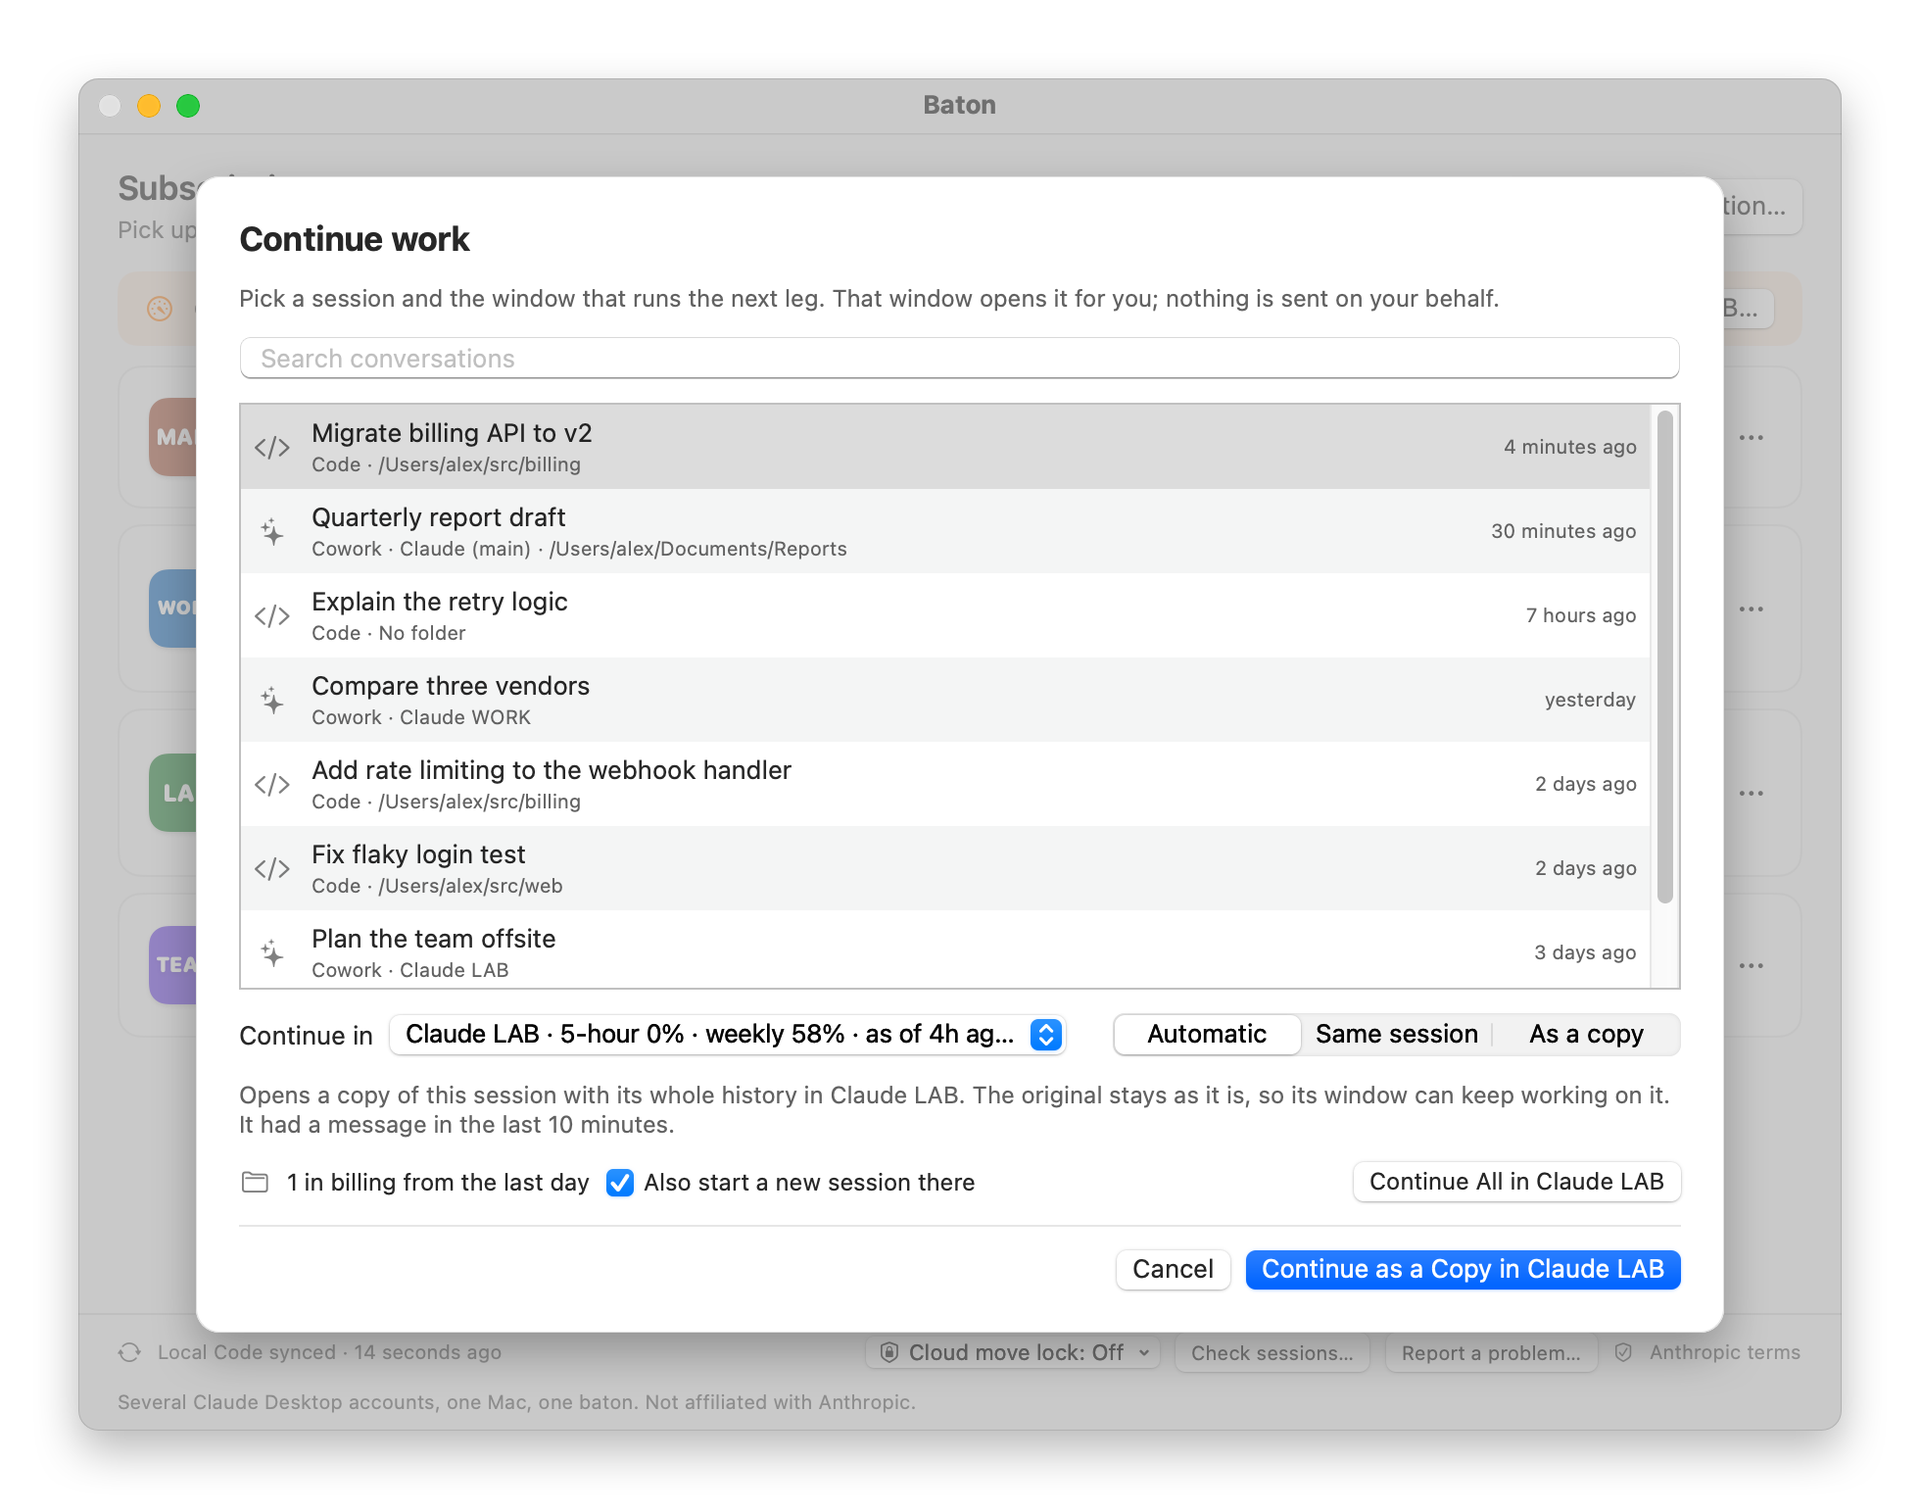
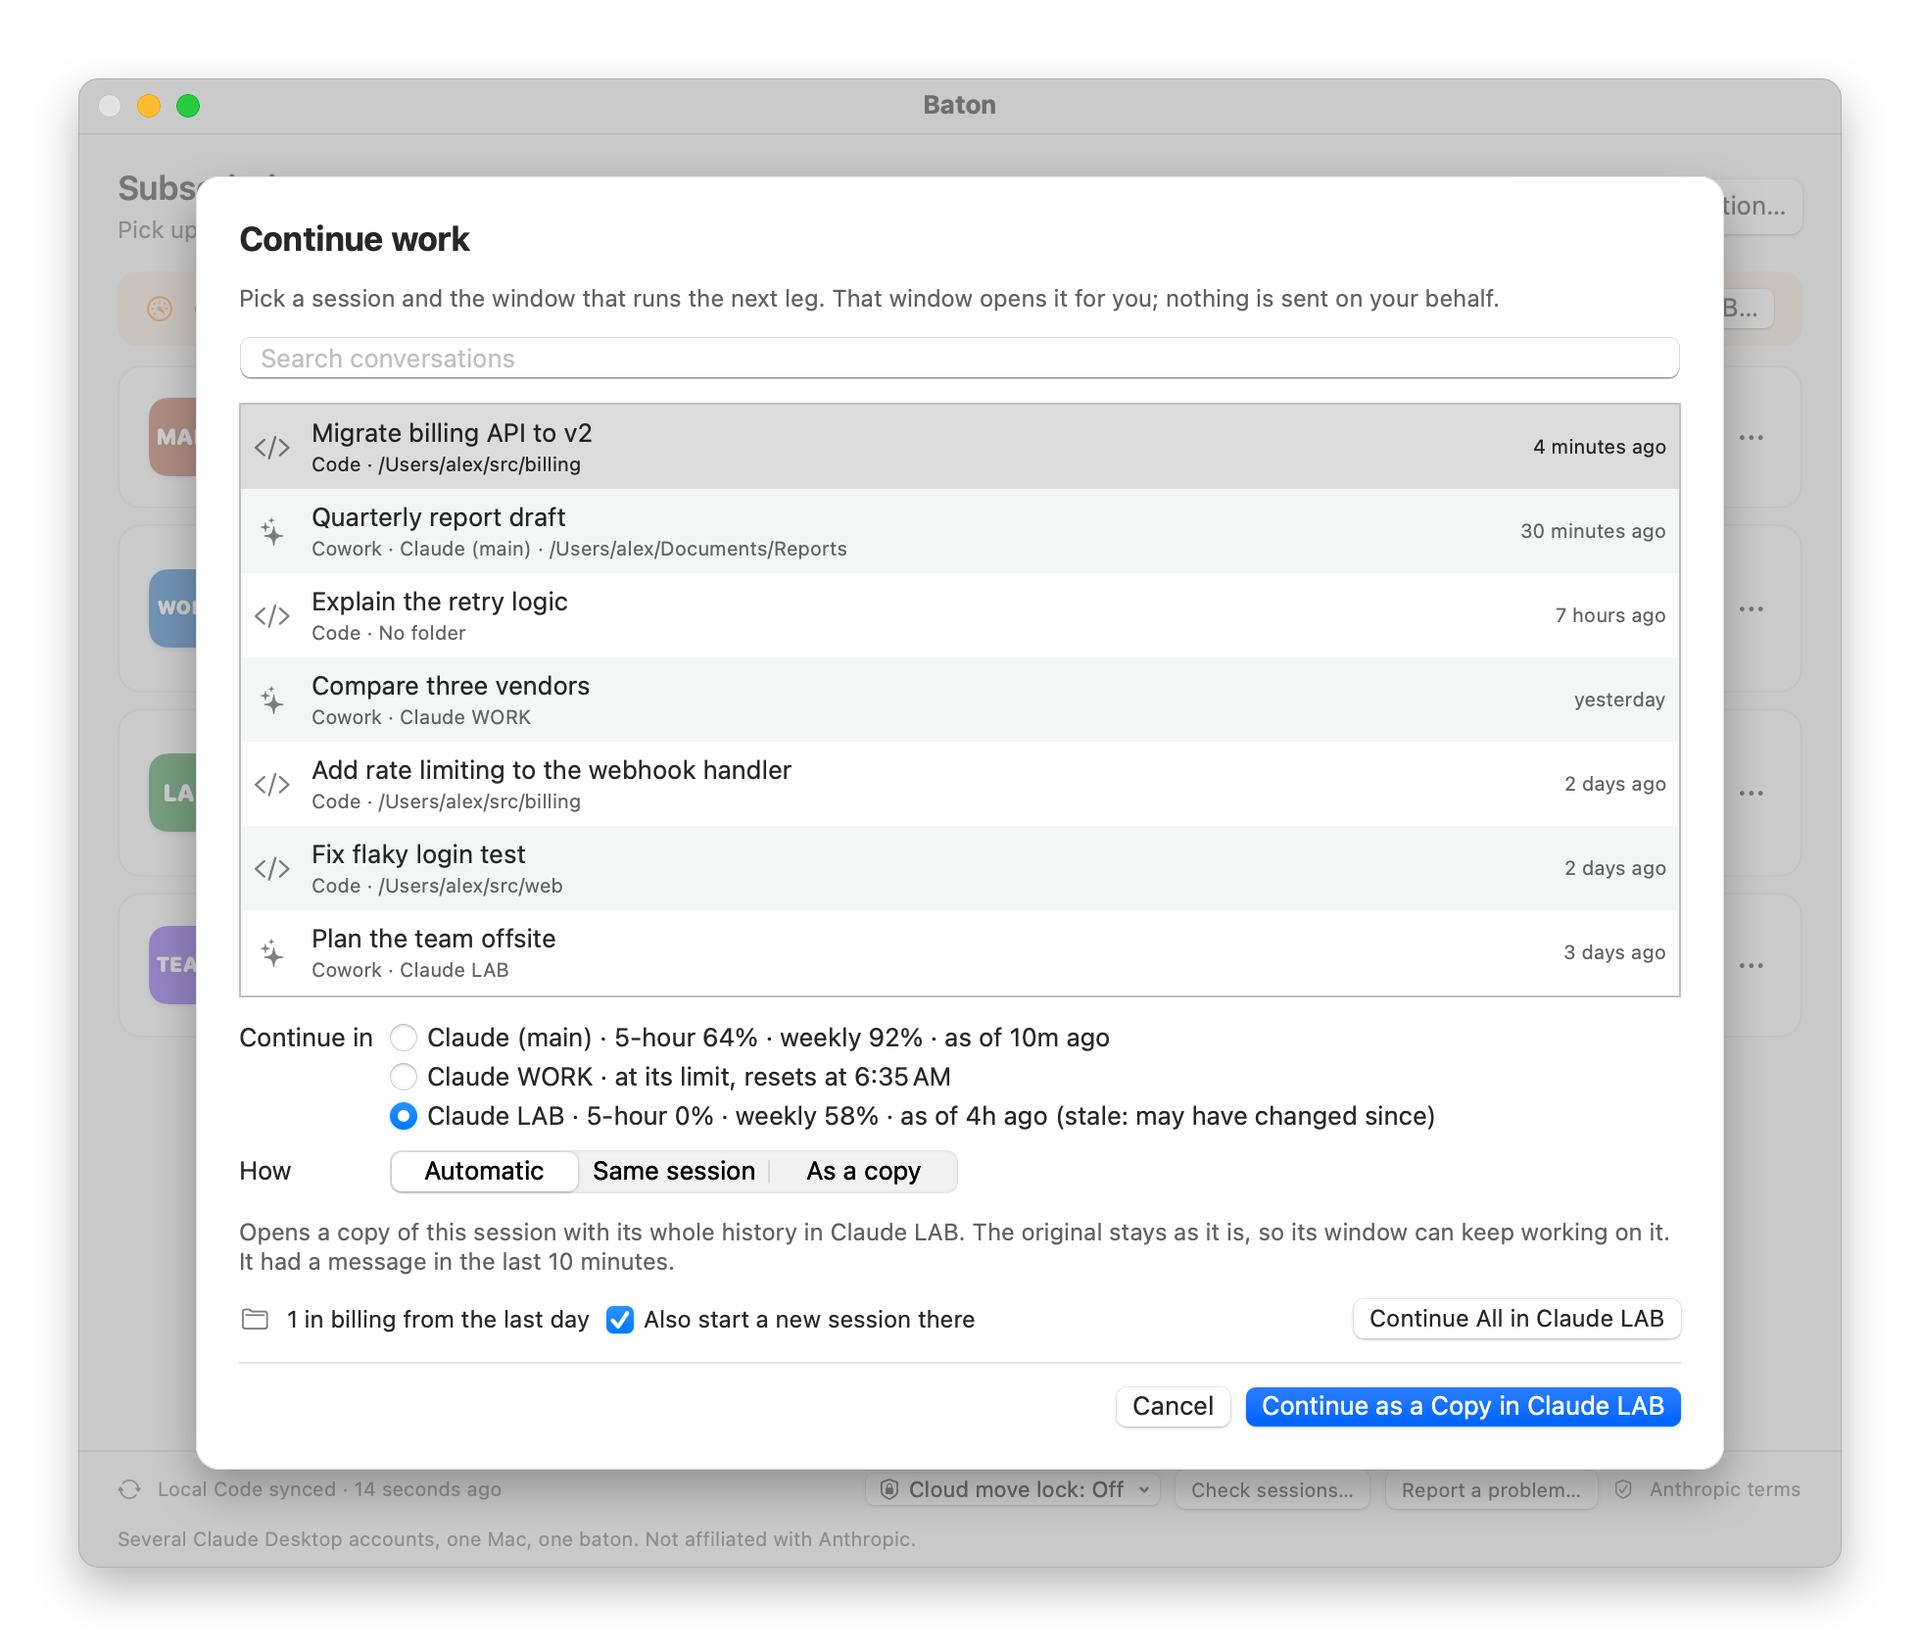
README pictures: the at-limit window in the Continue sheet and the offer to wait
continue-work.png now shows every window to continue in, WORK marked at its limit with its reset, and no cut text.
A fourth picture, continue-wait.png, shows "The limit resets soon" with Wait and Continue Now, next to the README's
Auto-continue paragraph: BATON_DEMO_SHEET=wait opens the Continue sheet with the sample offer, and DemoSnapshot draws
a sheet's own sheet (the alert) too. WORK's sample reset is 9 minutes away, inside the 15 minutes Baton offers to
wait for.

Changed region(s): [[0.0311, 0.0312, 0.9648, 0.9351], [0.9026, 0.1247, 0.9337, 0.1558]]

diff --git a/Sources/BatonApp/DemoSnapshot.swift b/Sources/BatonApp/DemoSnapshot.swift
@@ -2,8 +2,8 @@ import AppKit
 import BatonKit
 
 /// Documentation screenshots without screen capture. With `BATON_DEMO=1` and `BATON_DEMO_SNAPSHOT=<file.png>`, the
-/// app draws its main window, title bar included, and the sheet `BATON_DEMO_SHEET` opened on it, in the light
-/// appearance into a PNG at 2x, writes it and quits. AppKit draws the app's own views into a bitmap
+/// app draws its main window, title bar included, and the sheet `BATON_DEMO_SHEET` opened on it (with the alert on
+/// that sheet, if it shows one), in the light appearance into a PNG at 2x, writes it and quits. AppKit draws the app's own views into a bitmap
 /// (`cacheDisplay(in:to:)` on each window's frame view), so no screen-recording permission is involved and nothing
 /// else on the screen can end up in the picture. `scripts/screenshots.sh` takes the README's images this way.
 @MainActor
@@ -23,8 +23,9 @@ enum DemoSnapshot {
     }
 
     /// Called before any window appears: light appearance from the first frame, then the picture once the window
-    /// (and the sheet, if one was asked for) has settled. Gives up after 15 seconds with exit status 1.
-    static func take(to file: URL, withSheet: Bool) {
+    /// and `sheets` levels of sheets on it (a sheet, then an alert on that sheet) have settled. Gives up after 15
+    /// seconds with exit status 1.
+    static func take(to file: URL, sheets: Int) {
         NSApplication.shared.appearance = NSAppearance(named: .aqua)
         Task { @MainActor in
             let deadline = Date().addingTimeInterval(15)
@@ -35,7 +36,7 @@ enum DemoSnapshot {
                 // that state), and a sheet waits until its window is on screen.
                 if !window.isVisible { window.orderFrontRegardless() }
                 guard window.contentRect(forFrameRect: window.frame).size == contentSize else { continue }
-                guard !withSheet || window.attachedSheet != nil else { continue }
+                guard stack(window).count > sheets else { continue }
                 do {
                     try await settle(window)
                     try write(window, to: file)
@@ -54,18 +55,18 @@ enum DemoSnapshot {
     /// the picture, room for a sheet taller than the window, and the end of the sheet's animation.
     private static func settle(_ window: NSWindow) async throws {
         // Activation is cooperative on macOS 14 and later, so a copy started from a shell may stay inactive: ask again
-        // until the window (or its sheet) is key, and draw nothing with inactive, grey traffic lights.
+        // until the window (or a sheet on it) is key, and draw nothing with inactive, grey traffic lights.
+        let windows = stack(window)
         for _ in 0..<20 {
             NSApp.activate(ignoringOtherApps: true)
             NSApp.activate()
             window.orderFrontRegardless()
             window.makeKeyAndOrderFront(nil)
-            window.attachedSheet?.makeKey()
-            if window.isKeyWindow || window.attachedSheet?.isKeyWindow == true { break }
+            windows.last?.makeKey()
+            if windows.contains(where: \.isKeyWindow) { break }
             try? await Task.sleep(for: .milliseconds(250))
         }
-        guard window.isKeyWindow || window.attachedSheet?.isKeyWindow == true else { throw SnapshotError.notActive }
-        let windows = [window, window.attachedSheet].compactMap { $0 }
+        guard windows.contains(where: \.isKeyWindow) else { throw SnapshotError.notActive }
         for shown in windows { shown.makeFirstResponder(nil) }
         try? await Task.sleep(for: .milliseconds(800))
         // A sheet hangs from the title bar; a tall one gets a taller window, so the footer still shows below it.
@@ -77,18 +78,26 @@ enum DemoSnapshot {
         try? await Task.sleep(for: .milliseconds(200))
     }
 
+    /// The window, its sheet and the sheet's own sheet (an alert on it), as far as they go.
+    private static func stack(_ window: NSWindow) -> [NSWindow] {
+        var windows = [window]
+        while let sheet = windows.last?.attachedSheet { windows.append(sheet) }
+        return windows
+    }
+
     /// The main window, not the menu bar extra or a sheet.
     static func mainWindow() -> NSWindow? {
         NSApp.windows.first { $0.identifier?.rawValue == "main" }
             ?? NSApp.windows.first { $0.isVisible && $0.sheetParent == nil && $0.styleMask.contains(.titled) }
     }
 
-    /// The window and its attached sheet, each with its shadow, on a transparent canvas large enough for both.
+    /// The window and its sheets, each with its shadow, on a transparent canvas large enough for all of them.
     private static func write(_ window: NSWindow, to file: URL) throws {
         guard let windowImage = image(of: window) else { throw SnapshotError.nothingDrawn }
         let windowRect = NSRect(origin: .zero, size: window.frame.size)
         var parts = [(windowImage, windowRect, radius(of: window))]
-        if let sheet = window.attachedSheet, let sheetImage = image(of: sheet) {
+        for sheet in stack(window).dropFirst() {
+            guard let sheetImage = image(of: sheet) else { break }
             let origin = NSPoint(x: sheet.frame.minX - window.frame.minX, y: sheet.frame.minY - window.frame.minY)
             parts.append((sheetImage, NSRect(origin: origin, size: sheet.frame.size), radius(of: sheet)))
         }

diff --git a/Sources/BatonApp/AppModel.swift b/Sources/BatonApp/AppModel.swift
@@ -64,6 +64,8 @@ final class AppModel: ObservableObject {
 
     let manager: ProfileManager
     let isDemo = DemoMode.isOn()
+    /// In demo mode with `BATON_DEMO_SHEET=wait`, the offer to wait that the Continue sheet shows at once.
+    private(set) var demoOffer: AutoResumeOffer?
     private var refreshTimer: Timer?
     private var syncTimer: Timer?
     /// Profiles whose window was open and not yet signed in at the last check.
@@ -103,16 +105,21 @@ final class AppModel: ObservableObject {
             return
         }
         // Documentation screenshots: BATON_DEMO=1 shows sample data, …_DEMO_SHEET=1 opens "Add"
-        // …_DEMO_SHEET=continue opens "Continue work…", …=report "Report a problem…" and …=status a window's status.
+        // …_DEMO_SHEET=continue opens "Continue work…", …=wait the same with its offer to wait for a reset,
+        // …=report "Report a problem…" and …=status a window's status.
         // With …_DEMO_SNAPSHOT=<file.png> it draws the window into that file and quits (see DemoSnapshot).
         // Everything below this guard (checks, timers, sync, launchers, the launch observer) never runs in demo mode.
         guard !isDemo else {
             let sheet = ProcessInfo.processInfo.environment["BATON_DEMO_SHEET"]
             isAdding = sheet == "1"
-            isContinuing = sheet == "continue"
+            isContinuing = sheet == "continue" || sheet == "wait"
             isReporting = sheet == "report"
+            if sheet == "wait" { demoOffer = DemoData.autoResumeOffer }
             if sheet == "status" { showStatus(of: "work") }
-            if let file = DemoSnapshot.file() { DemoSnapshot.take(to: file, withSheet: isAdding || isContinuing || isReporting || statusWindow != nil) }
+            if let file = DemoSnapshot.file() {
+                let sheets = demoOffer != nil ? 2 : isAdding || isContinuing || isReporting || statusWindow != nil ? 1 : 0
+                DemoSnapshot.take(to: file, sheets: sheets)
+            }
             DispatchQueue.main.asyncAfter(deadline: .now() + 0.5) {
                 guard let window = DemoSnapshot.mainWindow() else { return }
                 // The demo's size and state are not remembered for the real app, which shares its preferences.
@@ -525,6 +532,14 @@ final class AppModel: ObservableObject {
 }
 
 enum DemoData {
+    /// When WORK's five-hour limit resets, from now.
+    static let workResetsIn: TimeInterval = 9 * 60
+
+    /// WORK picks the first session up by itself after its reset: what the Continue sheet offers to wait for.
+    static var autoResumeOffer: AutoResumeOffer {
+        AutoResumeOffer(label: "WORK", resetsAt: Date().addingTimeInterval(workResetsIn), sessions: ["1"], titles: [conversations[0].title])
+    }
+
     static var conversations: [Conversation] {
         let now = Date(), none = URL(fileURLWithPath: "/nonexistent.jsonl")
         return [
@@ -584,14 +599,14 @@ enum DemoData {
 
     /// WORK is at its five-hour limit with a reset time Claude named, so the pictures show the limit banner, the reset
     /// beside the meters and the at-limit entry in the Continue sheet; LAB's sample is four hours old, so its usage
-    /// "may have changed since".
+    /// "may have changed since". WORK resets within `AutoResumeOffer.within`, so its offer to wait is one Baton makes.
     static var statuses: [ProfileStatus] {
         let now = Date()
         let workUsage = Usage(fiveHour: 100, week: 31, sampledAt: now.addingTimeInterval(-300))
         var workLimits = Limits(usage: workUsage)
         workLimits.fiveHour = LimitState(
             kind: .fiveHour, percent: 100, sampledAt: workUsage.sampledAt, reachedAt: now.addingTimeInterval(-2_400),
-            reset: LimitReset(at: now.addingTimeInterval(5_700), source: .exact))
+            reset: LimitReset(at: now.addingTimeInterval(workResetsIn), source: .exact))
         return [
             ProfileStatus(
                 profile: nil, accountID: "demo-main", email: "alex@example.com",

diff --git a/Sources/BatonApp/ContinueWorkSheet.swift b/Sources/BatonApp/ContinueWorkSheet.swift
@@ -269,6 +269,8 @@ struct ContinueWorkSheet: View {
             model.loadConversations()
             chooseDefaults()
             refreshPlan()
+            // Demo mode's picture of the offer to wait: it never looks at real limits, so it is handed one.
+            if let offer = model.demoOffer { form.offer = offer }
         }
         .onDisappear { form.isGone = true }
         .onChange(of: form.search) { form.selection = ConversationIndex.selection(form.selection, in: filtered) }

diff --git a/README.md b/README.md
@@ -125,7 +125,7 @@ Each row shows the account signed in to that window and its five-hour and weekly
 Click **Continue work…**. It lists the local Code sessions and Cowork tasks of every window, most recent first. Choose one and a subscription to continue in, then click **Continue**; the button names the window, as in **Continue in Claude WORK**. When an open subscription reaches its limit, a banner under the header opens the same sheet ([Limits and resets](#limits-and-resets)). The signed-in subscription with the most room left (by the higher of its five-hour and weekly usage) is preselected, and those at their limit are marked. Usage is only updated while a window is open, so each figure shows its age; one older than 3 hours is marked *may have changed since*.
 
 <p align="center">
-  <img src="docs/images/continue-work.png" width="820" alt="Continue work sheet listing local Code sessions and Cowork tasks, with the window to continue in, the choice between Automatic, Same session and As a copy, and Continue All for the session's folder">
+  <img src="docs/images/continue-work.png" width="820" alt="Continue work sheet listing local Code sessions and Cowork tasks; the windows to continue in, each with its five-hour and weekly usage or, for one at its limit, when it resets; the choice between Automatic, Same session and As a copy; and Continue All for the session's folder">
 </p>
 
 | Conversation | What happens in the other window |
@@ -156,6 +156,10 @@ Each row shows the five-hour and weekly usage that Claude Desktop records for th
 A window counts as free again when its reset time passes, when a newer sample is below the limit, or when Claude answers a request sent in one of its sessions at least a minute after the limit (shown as *Claude answered since*, because extra usage may be what paid for it). An estimate never frees a window. Once a window that was at its limit has stayed free for a minute, Baton says it has room again, in its own window and, if you allow it, as a macOS notification. macOS asks about notifications once; if you decline, the notice stays in Baton's window.
 
 **Auto-continue.** Claude Desktop can continue a session by itself once its limit resets. When you continue such a session in another window, Baton turns off Auto-continue for that one session in the window it left, so the session is not worked on in two windows. It changes only that session's `optedIn` value in the window's `claude_desktop_config.json`, only while that window is closed (at once if it is; otherwise as soon as it closes while the Baton app runs, or when it is next opened from Baton), and after a dated backup. `baton doctor` lists what Baton turned off; to turn it back on, tick **Auto-continue when limits reset** on that session's limit message in Claude. When the window a session came from resets within 15 minutes and would continue it by itself, **Continue work…** and `baton continue` offer to wait instead.
+
+<p align="center">
+  <img src="docs/images/continue-wait.png" width="820" alt="The limit resets soon: Claude WORK resets in a few minutes and picks the session up by itself, with the buttons Wait and Continue Now over the Continue work sheet">
+</p>
 
 ## What follows and what stays
 

diff --git a/docs/TESTING.md b/docs/TESTING.md
@@ -49,4 +49,4 @@ Changes to the app's windows are also checked by hand: run it with sample data, 
 open -n --env BATON_DEMO=1 "build/Baton.app"
 ```
 
-`scripts/screenshots.sh` then redraws `docs/images/main-window.png`, `add-subscription.png` and `continue-work.png` from `build/Baton.app`. It runs the app's executable once per picture with only `HOME`, `USER`, `PATH`, `BATON_DEMO=1` and `BATON_DEMO_SNAPSHOT=<file>` (plus `BATON_DEMO_SHEET` for a sheet); the app draws its window, title bar and sheet included, in the light appearance at 2x with AppKit's view caching, writes the PNG and quits. Nothing is captured from the screen, so no screen-recording permission is involved. A run that takes longer than 20 seconds is stopped and reported.
+`scripts/screenshots.sh` then redraws `docs/images/main-window.png`, `add-subscription.png`, `continue-work.png` and `continue-wait.png` from `build/Baton.app`. It runs the app's executable once per picture with only `HOME`, `USER`, `PATH`, `BATON_DEMO=1` and `BATON_DEMO_SNAPSHOT=<file>` (plus `BATON_DEMO_SHEET` for a sheet); the app draws its window, title bar, sheet and an alert on the sheet included, in the light appearance at 2x with AppKit's view caching, writes the PNG and quits. Nothing is captured from the screen, so no screen-recording permission is involved. A run that takes longer than 20 seconds is stopped and reported.

diff --git a/CONTRIBUTING.md b/CONTRIBUTING.md
@@ -56,4 +56,4 @@ To try the app without real accounts, launch it with sample data; it changes not
 open -n --env BATON_DEMO=1 "build/Baton.app"
 ```
 
-`BATON_DEMO_SHEET=1` also opens **Add Subscription**, `continue` **Continue work…**. After `make app`, `scripts/screenshots.sh` redraws the README's images in `docs/images` from the same sample data; the app draws its own window into each file, so no screen-recording permission is needed.
+`BATON_DEMO_SHEET=1` also opens **Add Subscription**, `continue` **Continue work…**, and `wait` the same sheet with its offer to wait for a reset. After `make app`, `scripts/screenshots.sh` redraws the README's images in `docs/images` from the same sample data; the app draws its own window into each file, so no screen-recording permission is needed.
